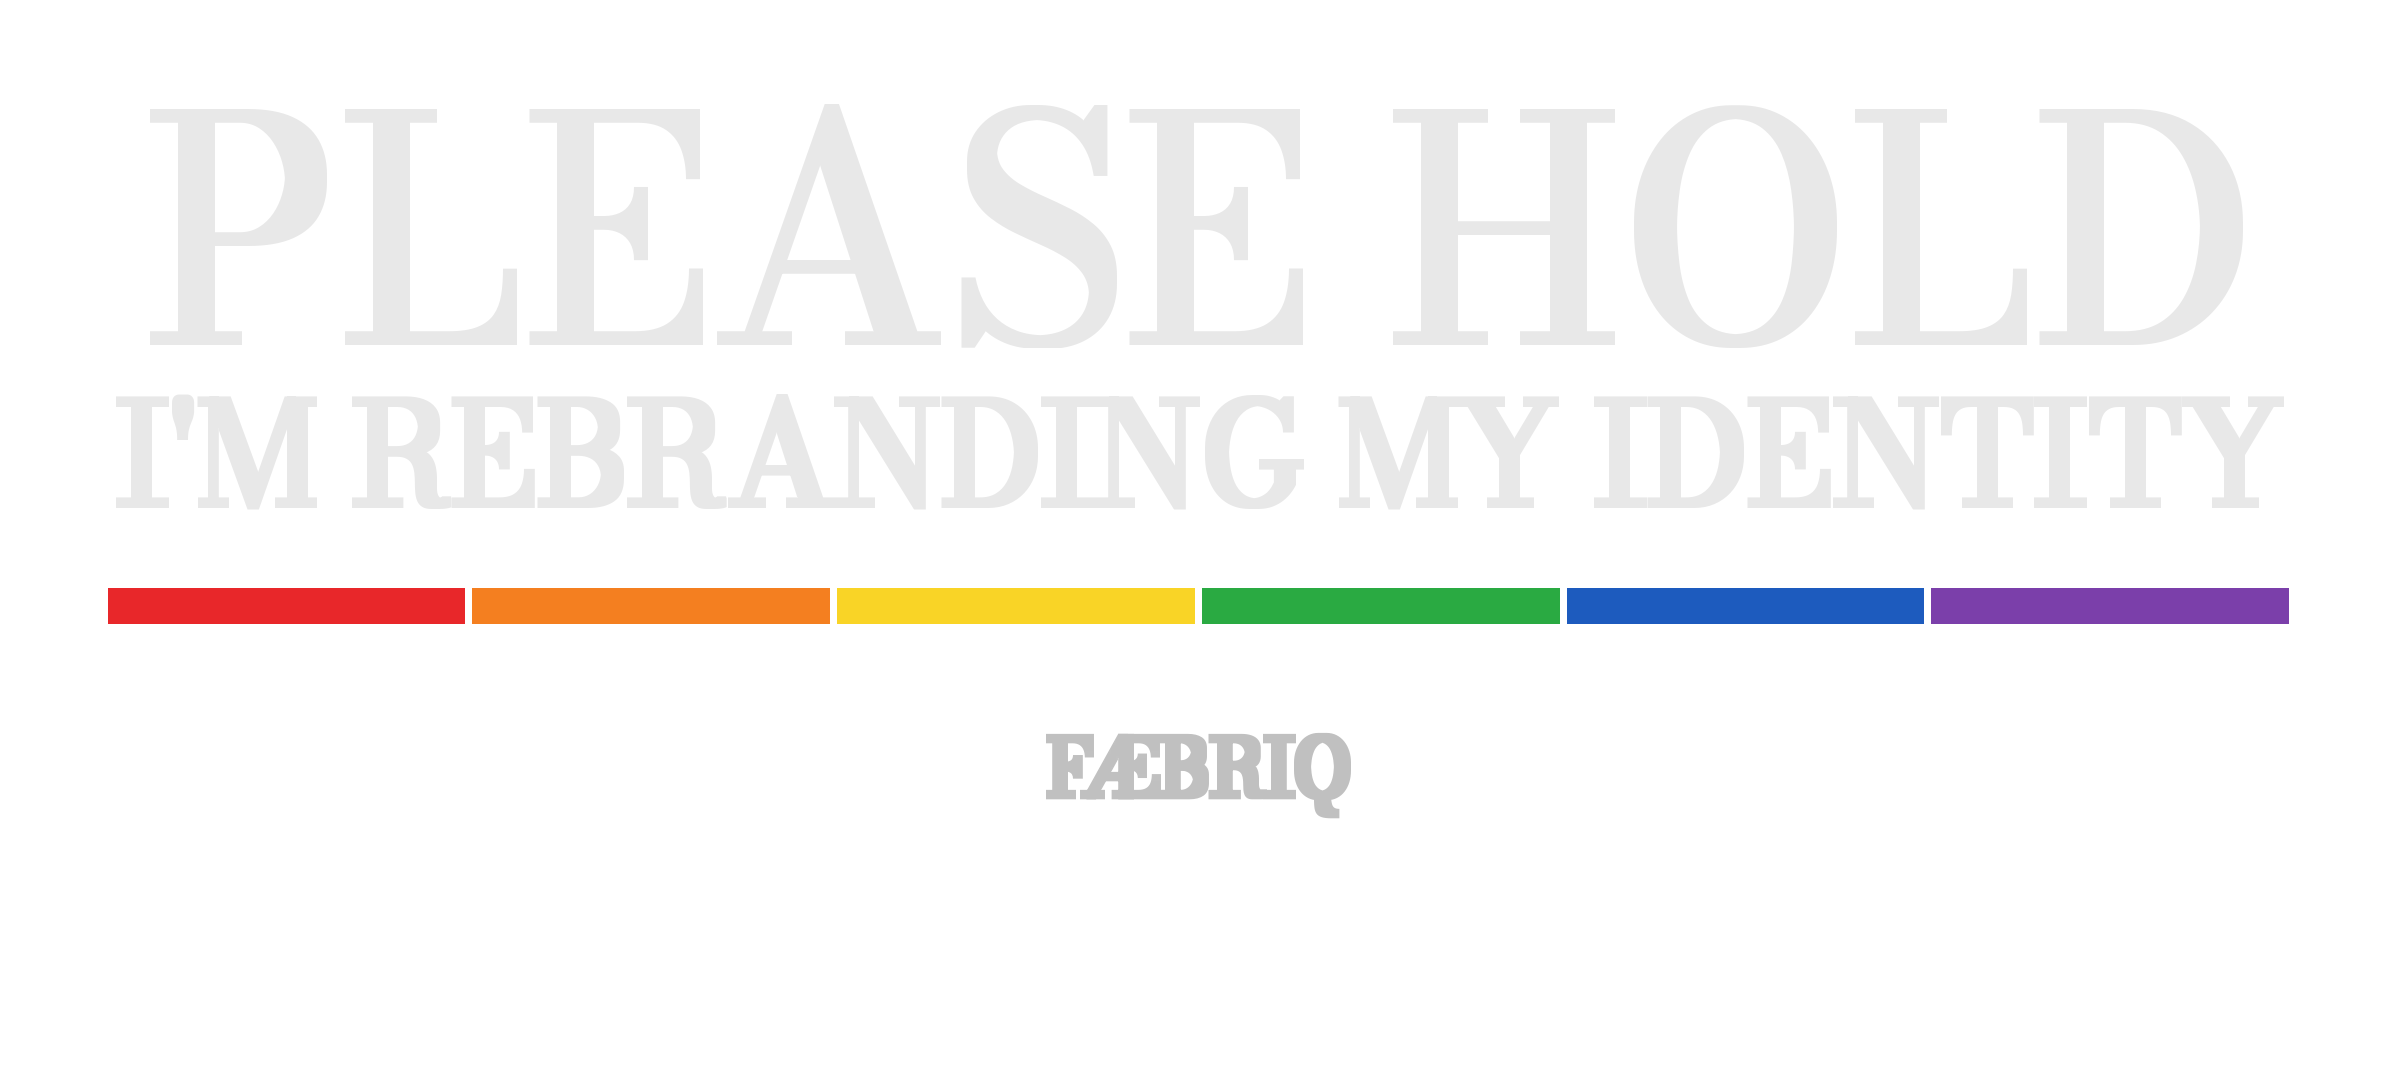
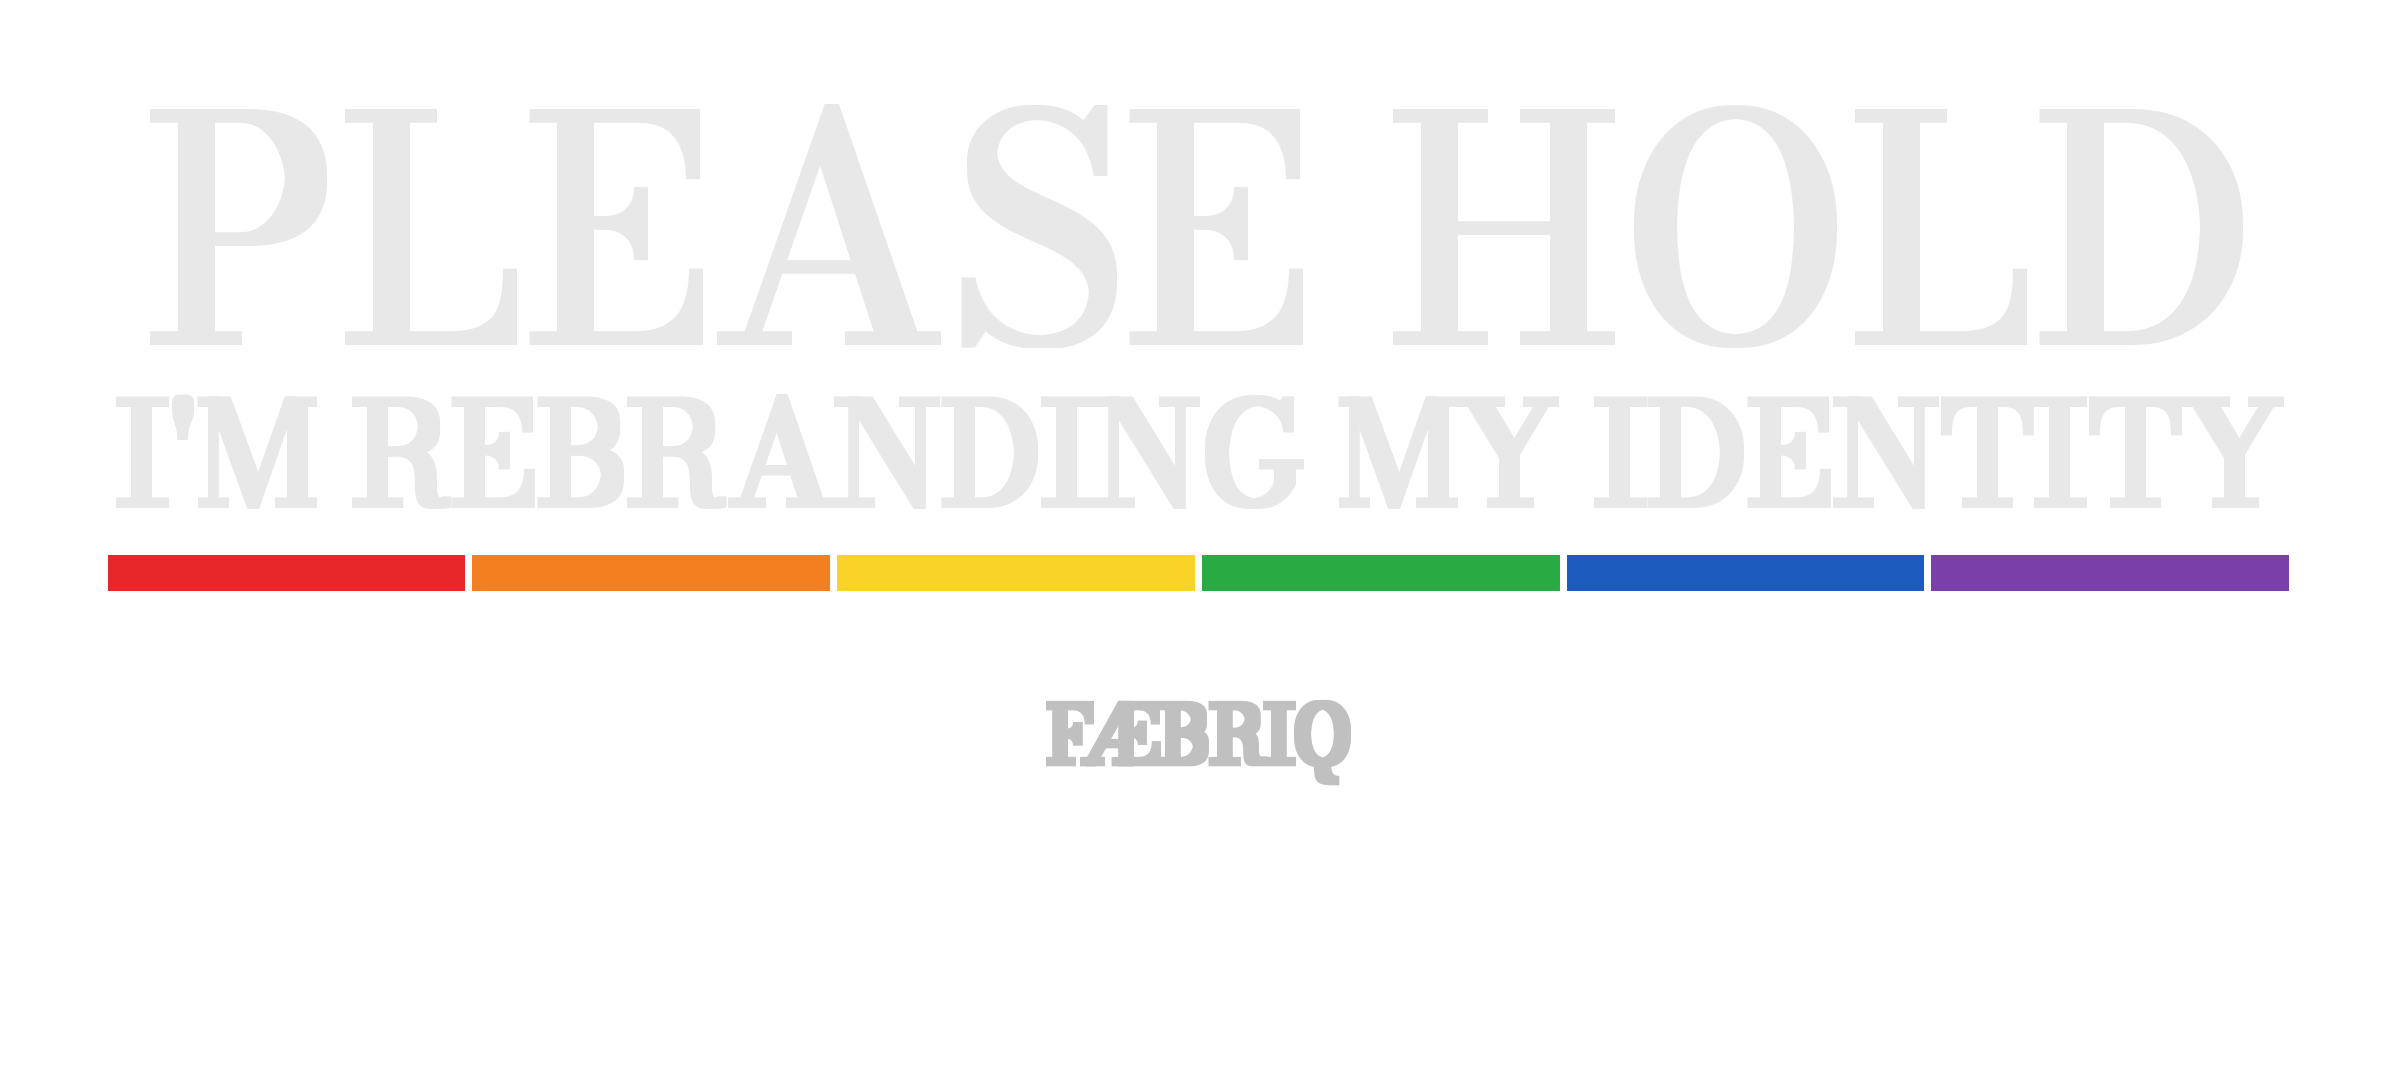
Close Please Hold sticker bottom gap to match the family too
Claude-Session: https://claude.ai/code/session_01VwDCHt8ADP2wXBC2gUM4Zh

Changed region(s): [[0.0312, 0.4889, 0.9688, 0.5806], [0.4375, 0.6417, 0.5625, 0.7639]]

diff --git a/CHANGELOG.md b/CHANGELOG.md
@@ -125,3 +125,5 @@ Why: real bug found on the reverted Bodoni files, confirmed on pixels.
 Why: Maurice: the gap was still too wide and inconsistent between designs; same treatment on both, no more candidates.
 2026-09-26 Closed Please Hold sticker's line1-to-line2 gap: ratio was 0.83 (unchanged since the l2_w fix, nobody retuned it for the bigger line 2), now 0.19, matching Off The Clock and Code It exactly. Pixel-shift only.
 Why: Maurice flagged the gap, confirmed at full resolution before committing.
+2026-09-26 Closed Please Hold's bottom gap (line 2 to bar) too, was 0.325 vs Code It's 0.19. Both gaps now 0.193, symmetric, matching the family. Pixel-shift only.
+Why: top gap alone wasn't enough, Maurice caught the bottom gap still off.
